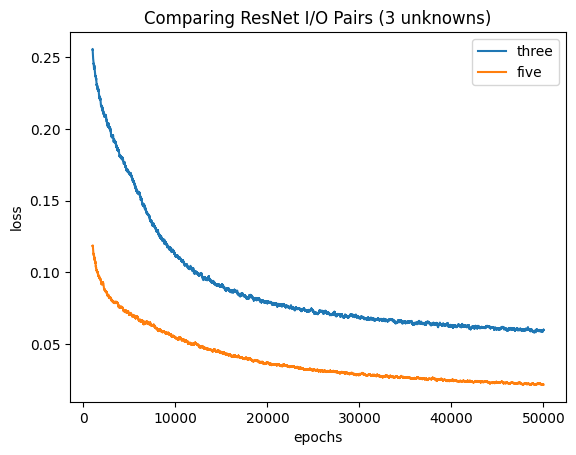
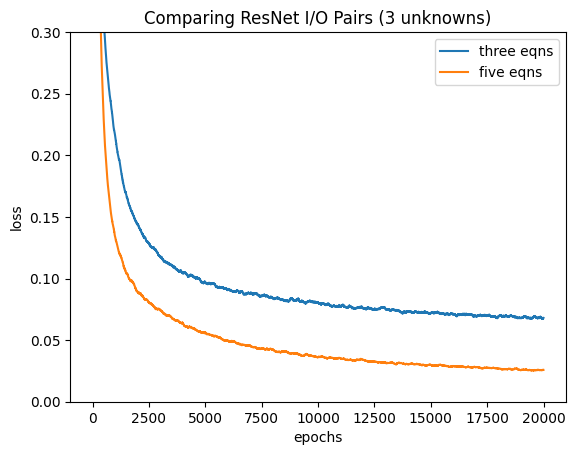
massive updates

diff --git a/_layouts/default.html b/_layouts/default.html
@@ -8,6 +8,13 @@
   <link rel="stylesheet" href="/assets/css/syntax.css">
   <link rel="icon" type="image/x-icon" href="/assets/images/favicon.ico">
   <link rel="alternate" type="application/rss+xml" title="RSS" href="/feed.xml">
+  <link rel="stylesheet" href="https://cdn.jsdelivr.net/npm/katex@0.16.9/dist/katex.min.css">
+  <script defer src="https://cdn.jsdelivr.net/npm/katex@0.16.9/dist/katex.min.js"></script>
+  <script defer src="https://cdn.jsdelivr.net/npm/katex@0.16.9/dist/contrib/auto-render.min.js"
+    onload="renderMathInElement(document.body, {delimiters: [
+      {left: '$$', right: '$$', display: true},
+      {left: '$', right: '$', display: false}
+    ]});"></script>
 </head>
 <body class="layout-{{ page.layout }} {{ page.body_class }}">
   <nav>

diff --git a/_posts/2026-05-11-neural-pred.md b/_posts/2026-05-11-neural-pred.md
@@ -16,39 +16,26 @@ We have a well-defined task: given inputs and weights of another, smaller neural
 
 ### Architecture
 
-To keep things concise, we'll define two layers with ReLU activations for our data generator. We can easily pass in weight tensors and evaluate any input.
+To keep things concise, we'll define two layers with a ReLU activation for our data generator. We can easily pass in weight tensors and evaluate any input.
 
 ```py
 def get_mlp_out(x, w1, w2):
-  y1 = nn.ReLU()(x @ w1)
-  y2 = nn.ReLU()(y1 @ w2)
-  return y2
+  y1 = F.relu(x @ w1)
+  return y1 @ w2
 ```
 
 The predictor net has two network variations we'll compare. 
 
 ```py
 class XLinear(nn.Module):
-  def __init__(self, concat_features=17):
-    super().__init__()
-
-    hidden_dims = [256, 512, 512, 256, 128]
-    layers = []
-    in_dim = concat_features
-    for hidden_dim in hidden_dims:
-      layers.append(nn.Linear(in_dim, hidden_dim))
-      in_dim = hidden_dim + in_dim
-
-    self.layers = nn.ModuleList(layers)
-    self.out = nn.Linear(in_dim, 1)
-
   def forward(self, x):
-    out = x
-    for layer in self.layers:
-      out = F.relu(layer(out))
-      out = torch.cat((out, x), dim=1)
+    h = x
 
-    return self.out(out)
+    for layer in layers:
+      h = activation(layer(h))
+      h = concat(h, x)  # reattach original input each time
+
+    return output_layer(h)
 ```
 
 `XLinear` has strength over a plain Linear network because the generator input and weights that we concatenate at each layer can skip information bottlenecks from previous hidden layers.
@@ -57,46 +44,23 @@ To provide even more scaffolding, we'll also look at `ResLinear` (it doesn't act
 
 ```py
 class ResBlock(nn.Module):
-  def __init__(self, in_dim, out_dim):
-    super().__init__()
-    self.net = nn.Sequential(
-      nn.Linear(in_dim, out_dim),
-      nn.BatchNorm1d(out_dim),
-      nn.ReLU(),
-      nn.Linear(out_dim, out_dim),
-      nn.BatchNorm1d(out_dim),
-    )
-    if in_dim != out_dim:
-        self.skip = nn.Linear(in_dim, out_dim)
-    else:
-        self.skip = nn.Identity()
-
   def forward(self, x):
-    return F.relu(self.net(x) + self.skip(x))
+    return activation(main_path(x) + skip_path(x))
+
 
 class ResLinear(nn.Module):
-  def __init__(self, concat_features = 17, 
-                hidden_dim = 256, out_dim = 1):
-    super().__init__()
-    self.l1 = nn.Linear(concat_features, hidden_dim)
-    self.res2 = ResBlock(hidden_dim, hidden_dim)
-    self.res3 = ResBlock(hidden_dim, hidden_dim)
-    self.res4 = ResBlock(hidden_dim, hidden_dim)
-    self.l5 = nn.Linear(hidden_dim, out_dim)
-
   def forward(self, x):
-    x = F.relu((self.l1(x)))
-    x = self.res2(x)
-    x = self.res3(x)
-    x = self.res4(x)
-    return self.l5(x)
+    x = input_layer(x)
+    x = res_block(x)
+    x = res_block(x)
+    return output_layer(x)
 ```
 
 The x samples are the concatenation of the generator net's input and weight tensors and the y samples are the evaluated output (using `get_mlp_out`).
 
 ### Results
 
-After training with a batch_size of 1024 and 50000 training steps, we get the following (note: all the loss curves below use exponential moving average to smooth out the noise).
+After training with a batch size of 1024 and 50000 training steps, we get the following (note: all the loss curves below use exponential moving average to smooth out the noise).
 
 ![Comparing XLinear to Linear]({{ page.asset_path }}xlin-comp.png)
 
@@ -104,7 +68,7 @@ The concatenation technique did work! But `ResLinear` did even better.
 
 ![Comparing XLinear to ResLinear]({{ page.asset_path }}xvsres.png)
 
-Looking at the tail of this graph, we see that we've reached almost 0 loss (as expected)! This loss can't be memorization since we sample fresh generator inputs and weights at each batch.
+By the end of the training run, we reach a loss of 0.017! This loss can't be memorization since we sample fresh generator inputs and weights at each batch.
 
 ---
 ## Part II
@@ -128,10 +92,7 @@ def get_simple_data(num_unknowns, num_pairs):
     pairs.append(x)
     pairs.append(y)
 
-  inp = torch.cat(tuple(pairs), dim=1)
-  out = w.flatten(1)
-
-  return inp, out
+  # ...
 ```
 
 Using this data generator, we should expect that our model (we used `ResLinear`) should perform better when given more equations (`num_pairs`) than unknowns (`num_unknowns`) since the system is overdetermined. So we try this out:
@@ -157,12 +118,12 @@ def get_data_v2(num_pairs):
     pairs.append(y)
 
   inp = torch.cat(tuple(pairs), 1)
-  return inp, (w1, w2)
+  # ...
 ```
 
-Training sequence:
+Training loop:
 ```py
-optimizer = torch.optim.Adam(model.parameters(), lr=0.01)
+optimizer = torch.optim.Adam(model.parameters(), lr=1e-3)
 loss = nn.MSELoss()
 
 for i in t:
@@ -185,9 +146,9 @@ for i in t:
   output.backward()
   optimizer.step()
 ```
-We naively apply the same model to this task. However, the key modifications in the training procedure were:
-1. The loss isn't computed between the predicted and actual weights. Doing such would make the training incredibly inefficient since there are many valid weight tensors that can implement the same function and we don't need the exact sequence of them.
-2. The loss is computed between the true y -- which is outputted from our generator net -- and predicted y -- which is the result of running a newly-sampled eval x sample through the predicted weights.
+We naively apply the same model to this task. However, there are key modifications to the training procedure:
+1. The loss isn't computed between the predicted and actual weights. Doing such would make the training incredibly inefficient since there are many valid weight tensors that can implement the same function and we don't need the exact sequence of them. Essentially, we're optimizing for **functional equivalence**.
+2. The loss is computed between the true y -- which is outputted from our generator net -- and predicted y -- which is the result of running a newly-sampled eval x sample through the predicted weights. This is a Monte Carlo estimate of the expected error over the entire input distribution. 
 
 Turns out, despite having 2x the equations as unknowns, loss doesn't decrease at all. A few reasons why:
 1. Since we blindly smush the xy pairs into a 1D list in `get_data_v2`, we don't give the model any inductive biases about the groupings of values. This makes learning the I/O mappings an uphill battle.
@@ -219,7 +180,7 @@ Now, we have a pair encoder that transforms a concatenated x and y into an embed
 
 ```py
 class WeightPredictor(nn.Module):
-  def __init__(self, x_dim, y_dim, out_dim, embed_dim=128):
+  def __init__(self, x_dim, y_dim, out_dim, embed_dim):
     super().__init__()
     self.encoder = PairEncoder(x_dim, y_dim, embed_dim)
     self.decoder = nn.Sequential(
@@ -240,18 +201,32 @@ class WeightPredictor(nn.Module):
 
 Finally, we decode these embeddings into the weights.
 
+For all the training runs below, we use a learning rate of `1e-3` and Lecun weight initialization for the data generator (I didn't do either in the first iteration and that was a huge mistake). Our embedding dimension has size 128.
+
 ### Results
-Following the same paradigm of predicting weights from the train input and using a new eval x to make a y prediction, we get this graph where we try predicting 15 unknowns from the weight layer using 20, 30, and 45 equations.
+Following the same paradigm of predicting weights from the train input and using a new eval x to make a y prediction, we get this graph where we try predicting 15 unknowns from the weight layer using 20, 30, and 45 equations. 
 
 ![Predicting 15 unknowns from 20, 30, and 45 eqns]({{ page.asset_path }}15-vars-test.png)
 
-Cool results -- our new method works! Jumping from 20 -> 30 equations is helping the loss a lot, but with 45 equations, we don't see any improvement at all. The network is likely saturated by this point as the extra 15 equations are redundant.
-
-Let's scale up the weights of the generator model and see if we get the same trend.
+Cool results -- our new method works! The loss goes down to 0.005 for the 45 equation curve and only a bit more for the other two plots. Let's scale up the weights of the generator model and see if we get the same trend.
 
 ![Predicting 50 unknowns from 67 (🤷♂), 100, and 150 eqns]({{ page.asset_path }}50-vars-test.png)
 
-I followed the same scaling factors as before: x1.33, x2, and x3, but with 50 unknowns instead. And wow...with more weights, the number of pairs you give doesn't matter. All converges to the same loss of ~0.25. This means the bottleneck shifted from sample count to the predictor architecture: decoder may lack capacity, embedding size too small, or some other optimization difficulty. Each of these are future directions of inquiry.
+I followed the same scaling factors as before: x1.33, x2, and x3, but with 50 unknowns instead. To compare, let's use $R^2$, the fraction of variance explained by the model.
+
+{::nomarkdown}
+$$
+\begin{array}{c|cc}
+\text{Equations / Unknowns} & \text{15 unknowns} & \text{50 unknowns} \\
+\hline
+1.33\times & 98.3\% & 91.7\% \\
+2\times & 98.6\% & 93.6\% \\
+3\times & 99.0\% & 93.8\%
+\end{array}
+$$
+{:/}
+
+We see that with more unknowns, the problem is genuinely harder per-unit-of-variance, with 5-6% less explained variance at each ratio. Also, there's saturation from 2x to 3x the equations for the 50 unknowns problem but we still see improvements with the 15 unknowns counterpart. One possible hypothesis for this behavior is the embedding layer bottleneck: the `PairEncoder` tries collapsing all pairs into a 128-dim vector. With more unknowns, the same fixed vector needs to hold more information. Furthermore, mean pooling throws away the spread and correlations between pairs which do actually matter -- switching to attention pooling could make a huge difference.
 
 ### Discussion
 
